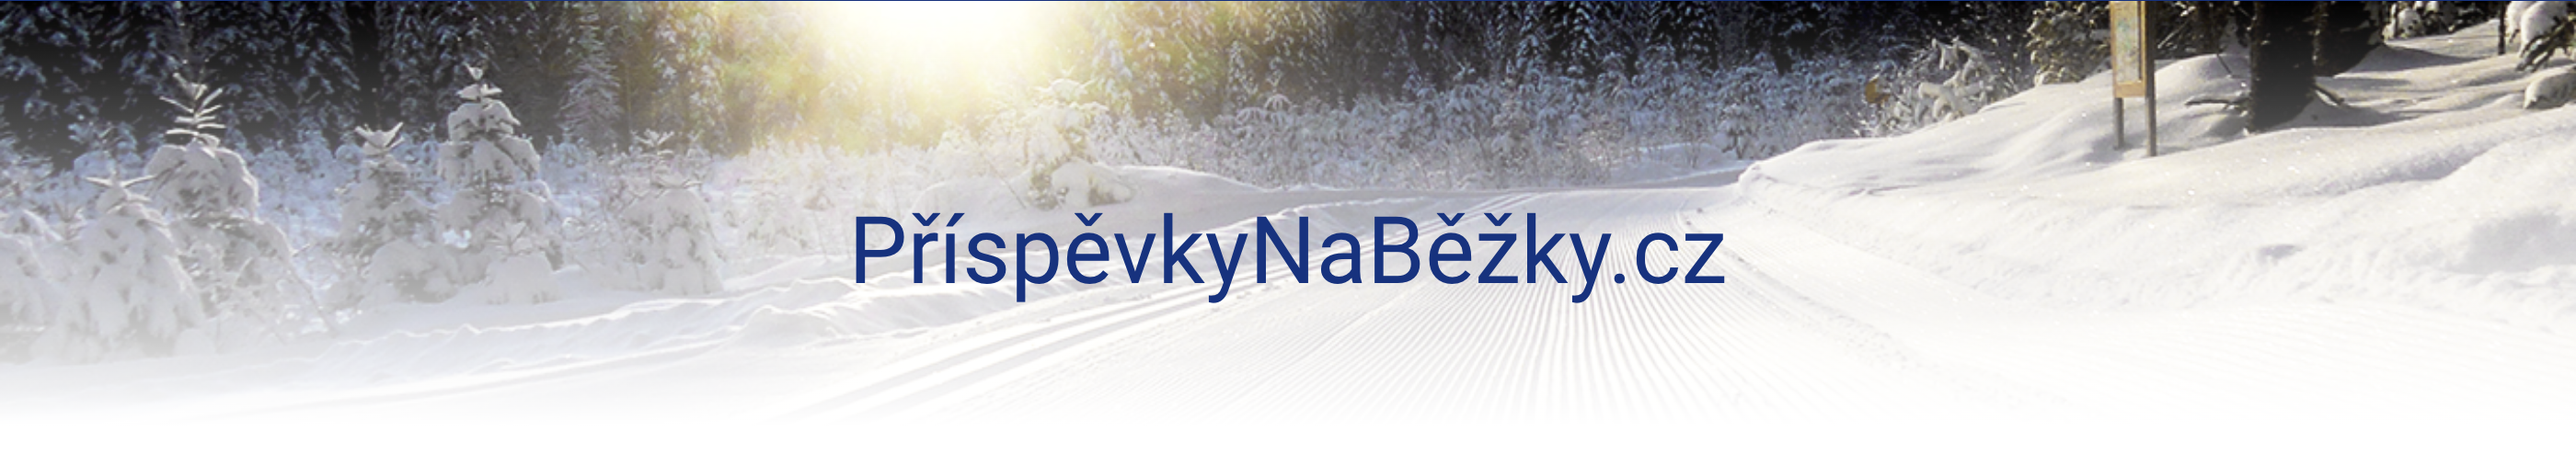
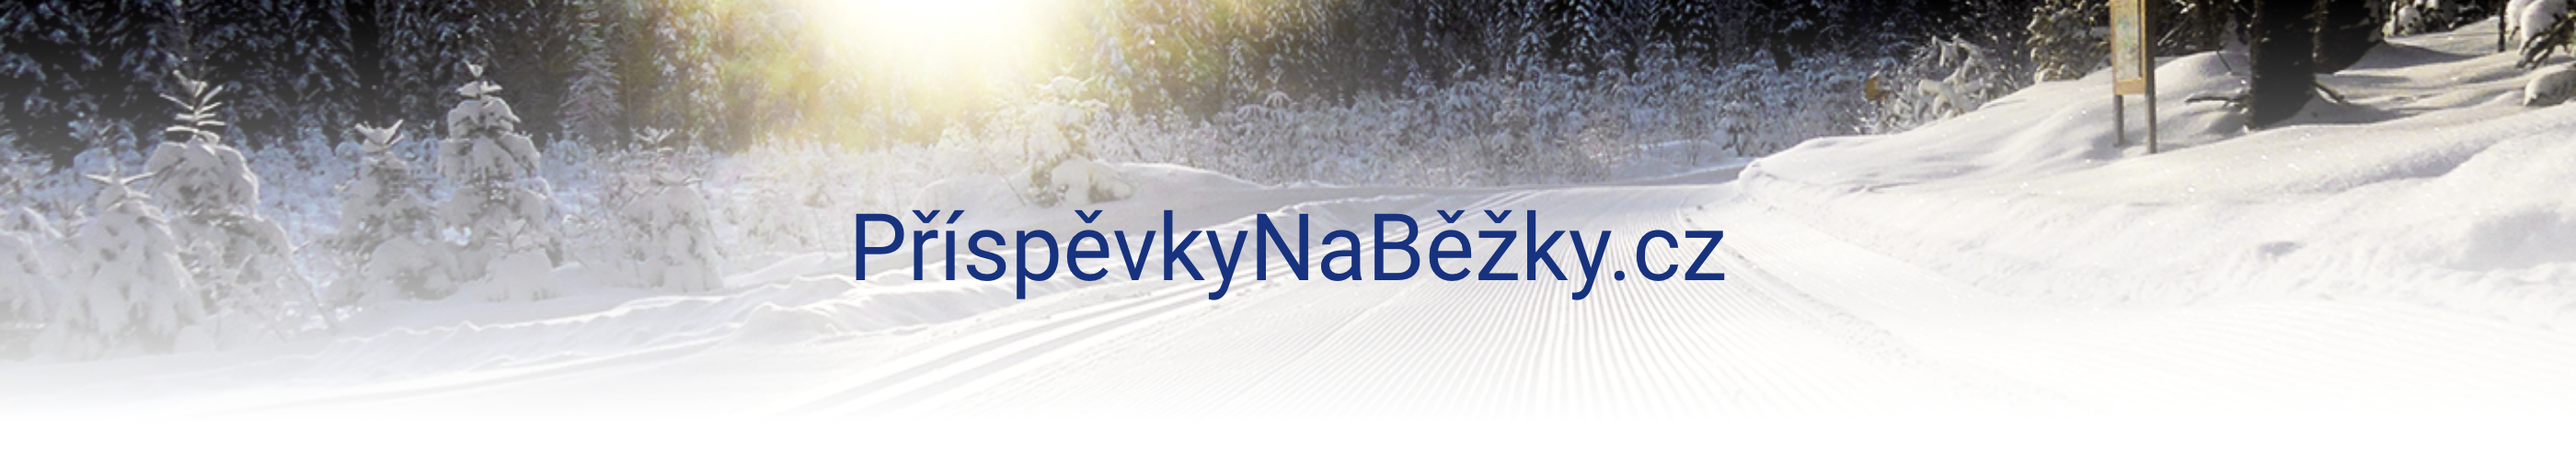
Updates

diff --git a/index.html b/index.html
@@ -1,1 +1,1 @@
-<!doctype html><html lang="en"><head><meta charset="utf-8"/><link rel="icon" href="/favicon.ico"/><meta name="viewport" content="width=device-width,initial-scale=1"/><meta name="theme-color" content="#000000"/><meta property="og:title" content="Příspěvky na běžky jednoduše."/><meta property="og:description" content="Trasy a stopy na běžky se nedělají samy. Příspěj na jejich úpravu! Přehledně a na jednom místě."/><meta property="og:image" content="https://prispevkynabezky.cz/title.png"/><meta property="og:image" content="https://prispevkynabezky.cz/skier310.png"/><meta property="og:url" content="https://prispevkynabezky.cz"/><meta name="author" content="Vojtěch Uhlíř"/><link rel="canonical" href="https://prispevkynabezky.cz"/><link rel="apple-touch-icon" href="/logo192.png"/><link rel="manifest" href="/manifest.json"/><link href="https://fonts.googleapis.com/css?family=Kaushan+Script" rel="stylesheet"/><link href="https://fonts.googleapis.com/css?family=Roboto:400,100,300,700" rel="stylesheet"/><title>Příspěvky na běžky jednoduše.</title><meta name="description" content="Trasy a stopy na běžky se nedělají samy. Příspěj na jejich úpravu! Přehledně a na jednom místě."/><script defer="defer" src="/static/js/main.59d20e76.js"></script><link href="/static/css/main.239c8c88.css" rel="stylesheet"></head><script async src="https://www.googletagmanager.com/gtag/js?id=G-TJGECJ2MHV"></script><script>function gtag(){dataLayer.push(arguments)}window.dataLayer=window.dataLayer||[],gtag("js",new Date),gtag("config","G-TJGECJ2MHV")</script><body><noscript>You need to enable JavaScript to run this app.</noscript><div id="root"></div></body></html>
+<!doctype html><html lang="en"><head><meta charset="utf-8"/><link rel="icon" href="/favicon.ico"/><meta name="viewport" content="width=device-width,initial-scale=1"/><meta name="theme-color" content="#000000"/><meta property="og:title" content="Příspěvky na běžky jednoduše."/><meta property="og:description" content="Trasy a stopy na běžky se nedělají samy. Příspěj na jejich úpravu! Přehledně a na jednom místě."/><meta property="og:image" content="https://prispevkynabezky.cz/title2.png"/><meta property="og:image" content="https://prispevkynabezky.cz/skier310.png"/><meta property="og:url" content="https://prispevkynabezky.cz"/><meta name="author" content="Vojtěch Uhlíř"/><link rel="canonical" href="https://prispevkynabezky.cz"/><link rel="apple-touch-icon" href="/logo192.png"/><link rel="manifest" href="/manifest.json"/><link href="https://fonts.googleapis.com/css?family=Kaushan+Script" rel="stylesheet"/><link href="https://fonts.googleapis.com/css?family=Roboto:400,100,300,700" rel="stylesheet"/><title>Příspěvky na běžky jednoduše.</title><meta name="description" content="Trasy a stopy na běžky se nedělají samy. Příspěj na jejich úpravu! Přehledně a na jednom místě."/><script defer="defer" src="/static/js/main.59d20e76.js"></script><link href="/static/css/main.239c8c88.css" rel="stylesheet"></head><script async src="https://www.googletagmanager.com/gtag/js?id=G-TJGECJ2MHV"></script><script>function gtag(){dataLayer.push(arguments)}window.dataLayer=window.dataLayer||[],gtag("js",new Date),gtag("config","G-TJGECJ2MHV")</script><body><noscript>You need to enable JavaScript to run this app.</noscript><div id="root"></div></body></html>
